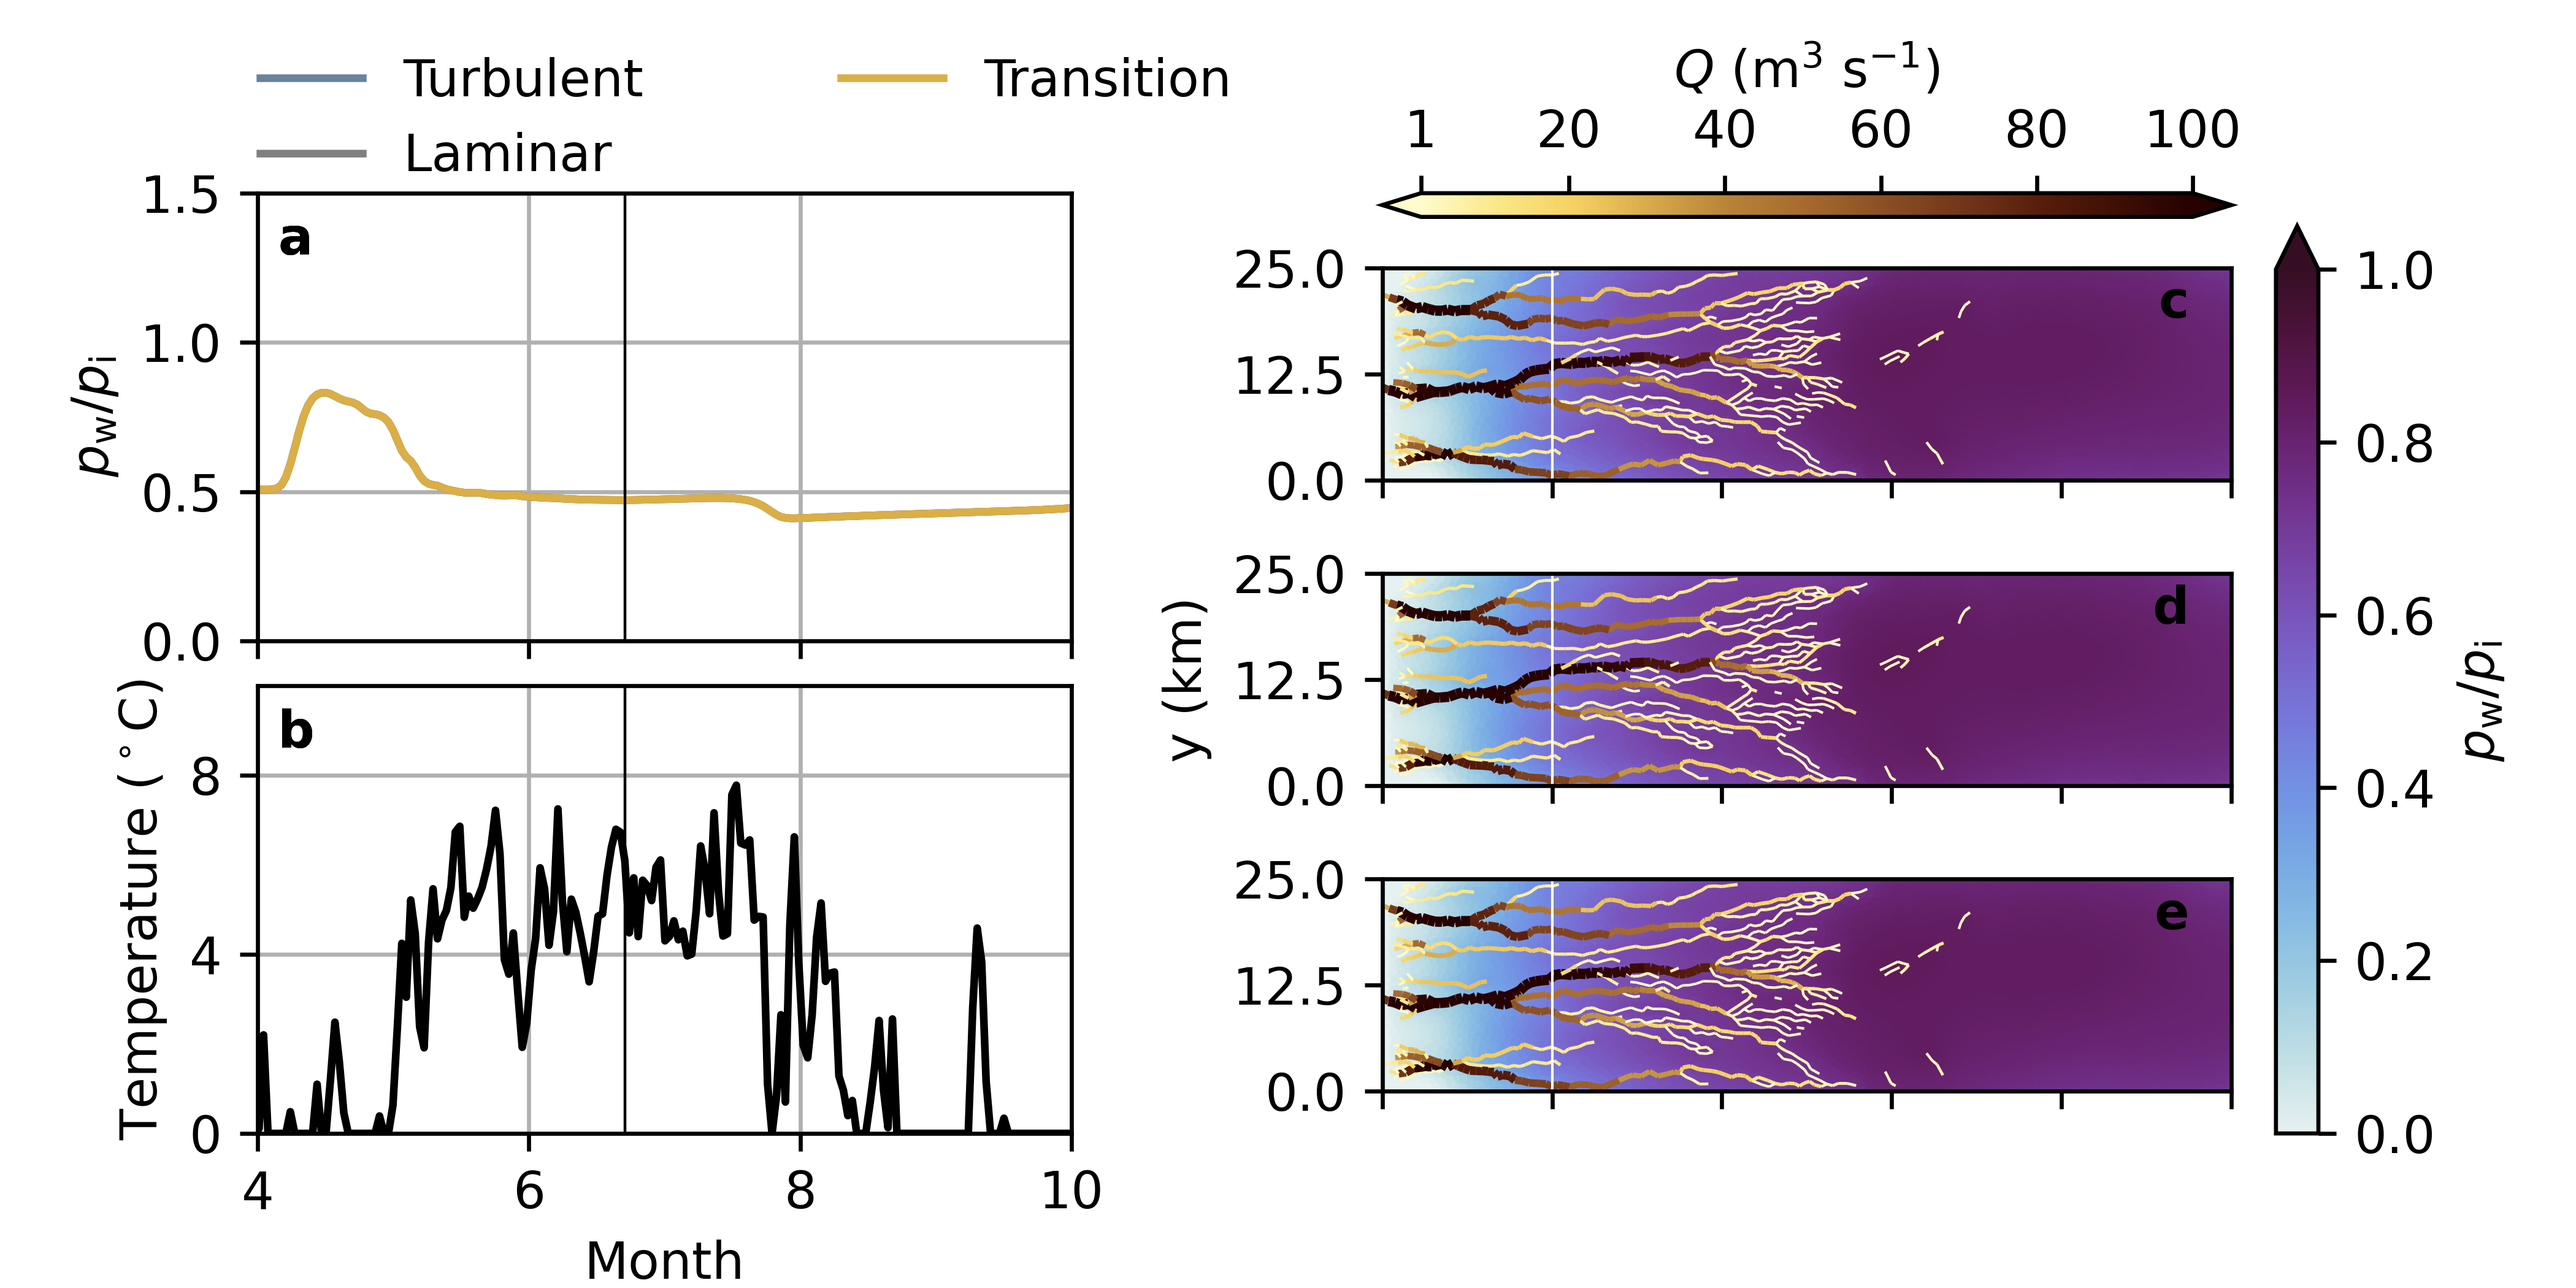
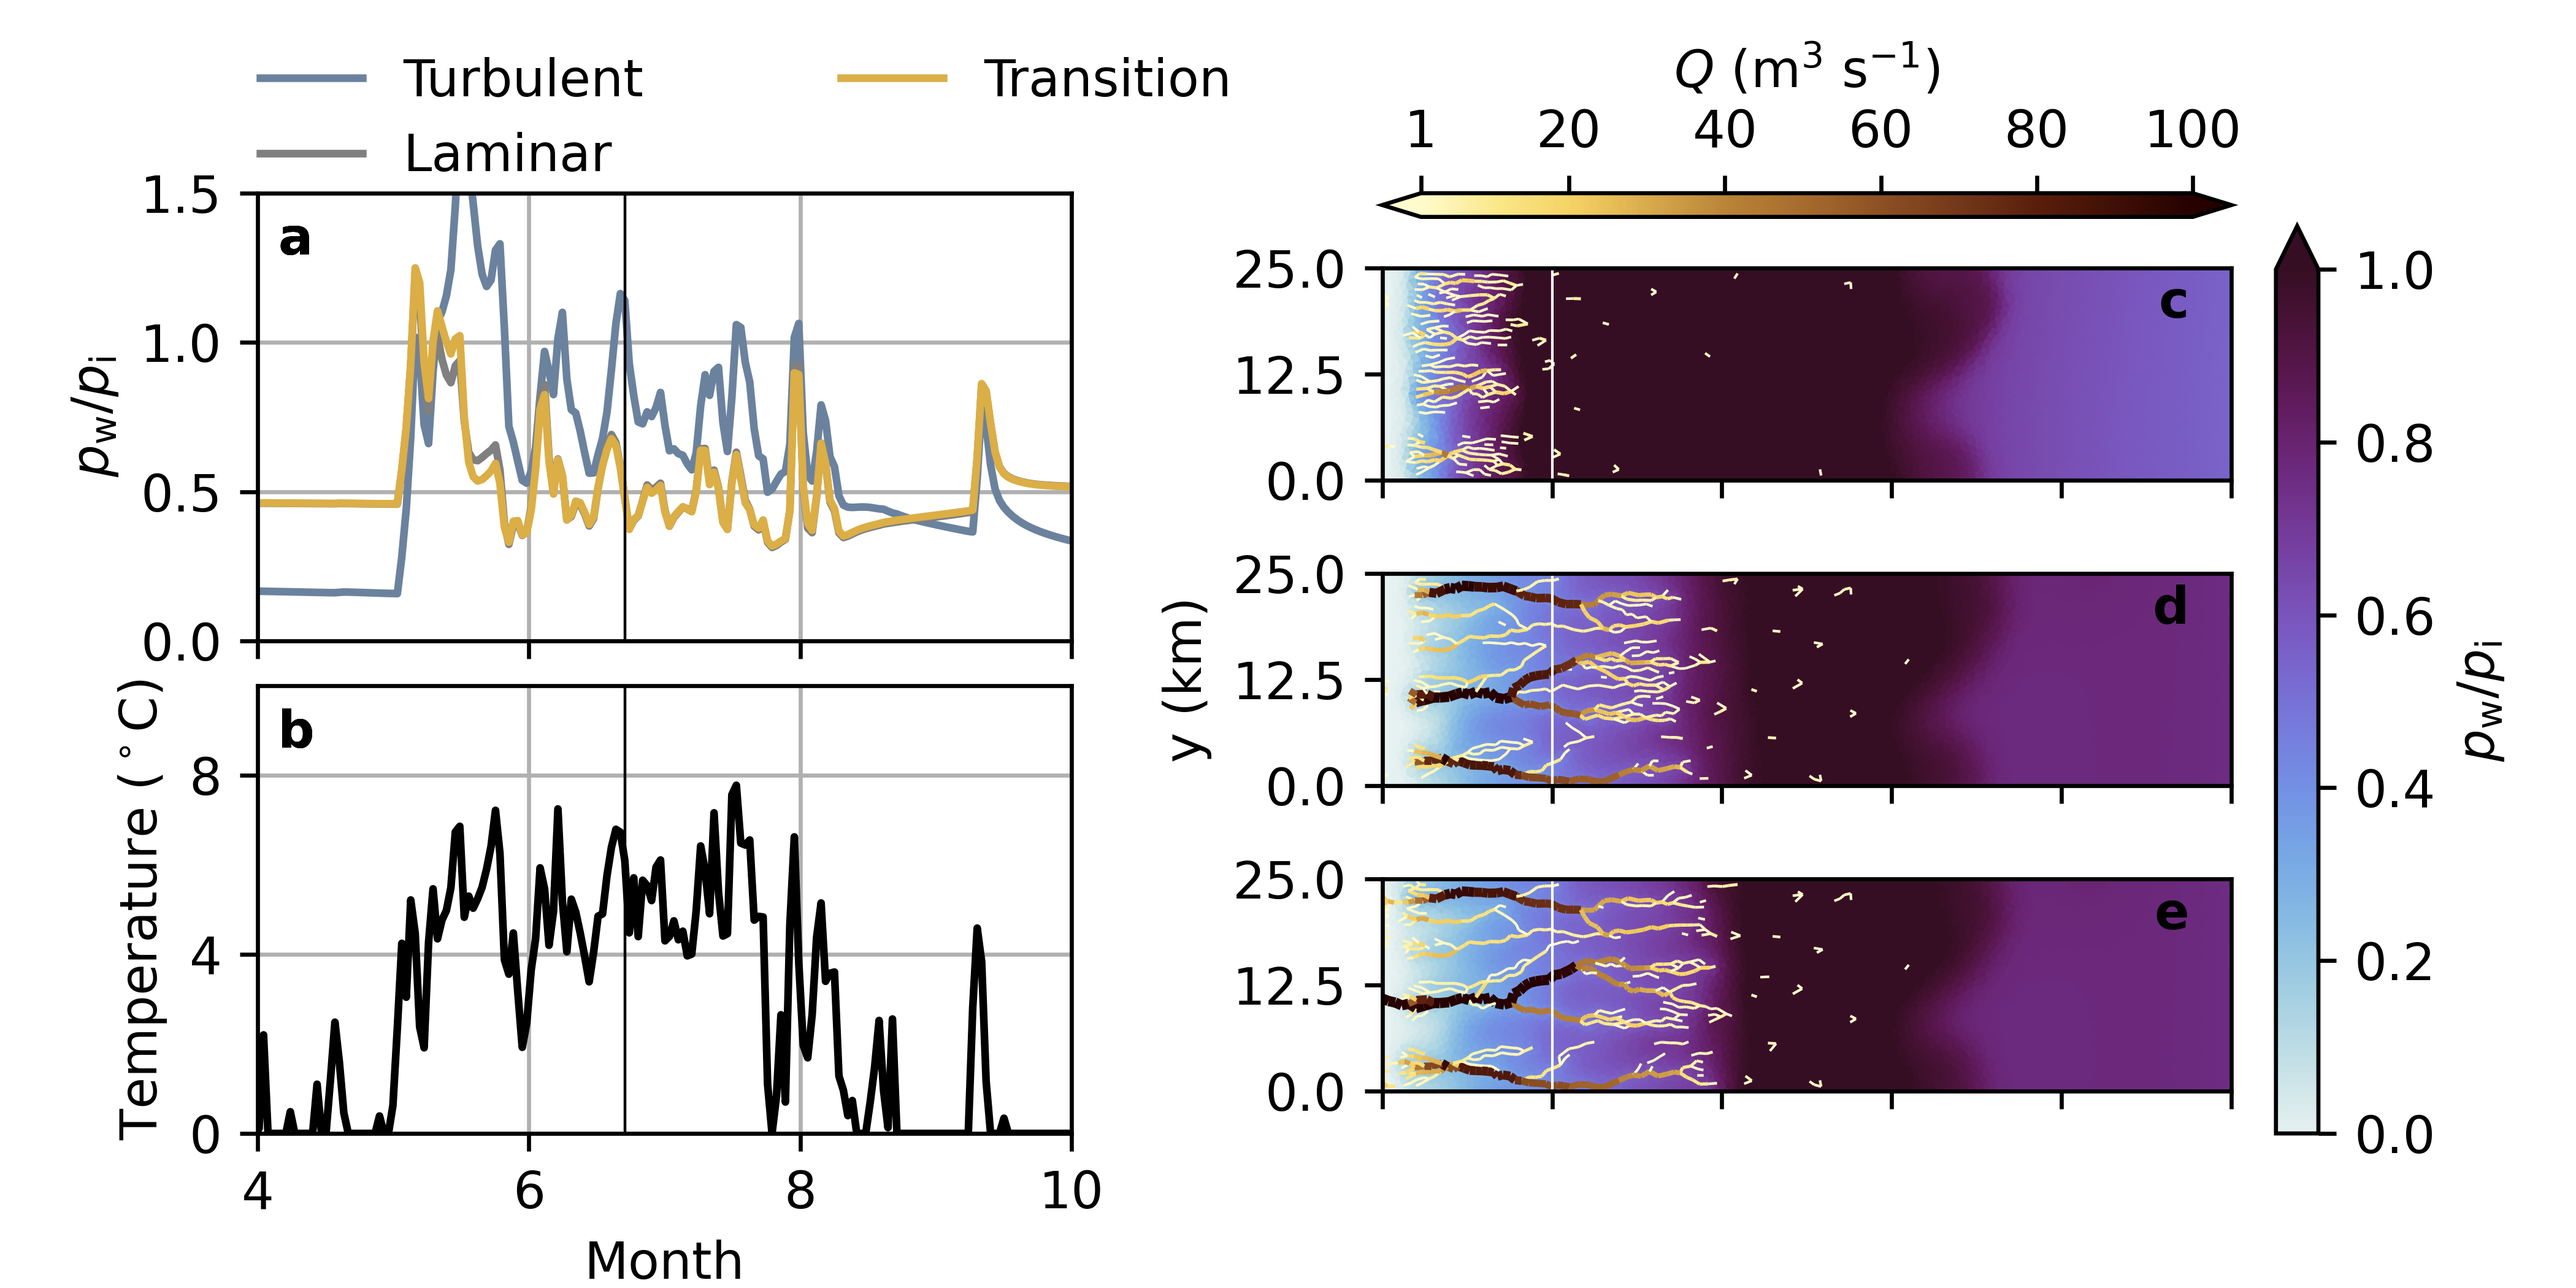
Real data

diff --git a/analysis/EASC_research_day/plot_multigrid.py b/analysis/EASC_research_day/plot_multigrid.py
@@ -302,9 +302,9 @@ if __name__ == '__main__':
     ## Case 01: Flat topo, KAN_L forcing
     KAN_tslice = 569
     # cases = [2, 3, 5]
-    cases = [3, 3, 3]
-    # pattern = '../glads/01_kan_l_forcing_shmip_topo/RUN/output_%03d_seasonal.nc'
-    pattern = '../../glads/02a_shmip_forcing_valley_topo/RUN/output_%03d_seasonal.nc'
+    cases = [102, 103, 105]
+    pattern = '../../glads/01_kan_l_forcing_shmip_topo/RUN/output_%03d_seasonal.nc'
+    # pattern = '../../glads/02a_shmip_forcing_valley_topo/RUN/output_%03d_seasonal.nc'
     fnames = [pattern % caseid for caseid in cases]
     figname = '01_pressure_seasonal.png'
     fig_01 = plot_pressure_maps_timeseries(fnames, figname, tslice=KAN_tslice, Qmin=1, melt_forcing='KAN',
